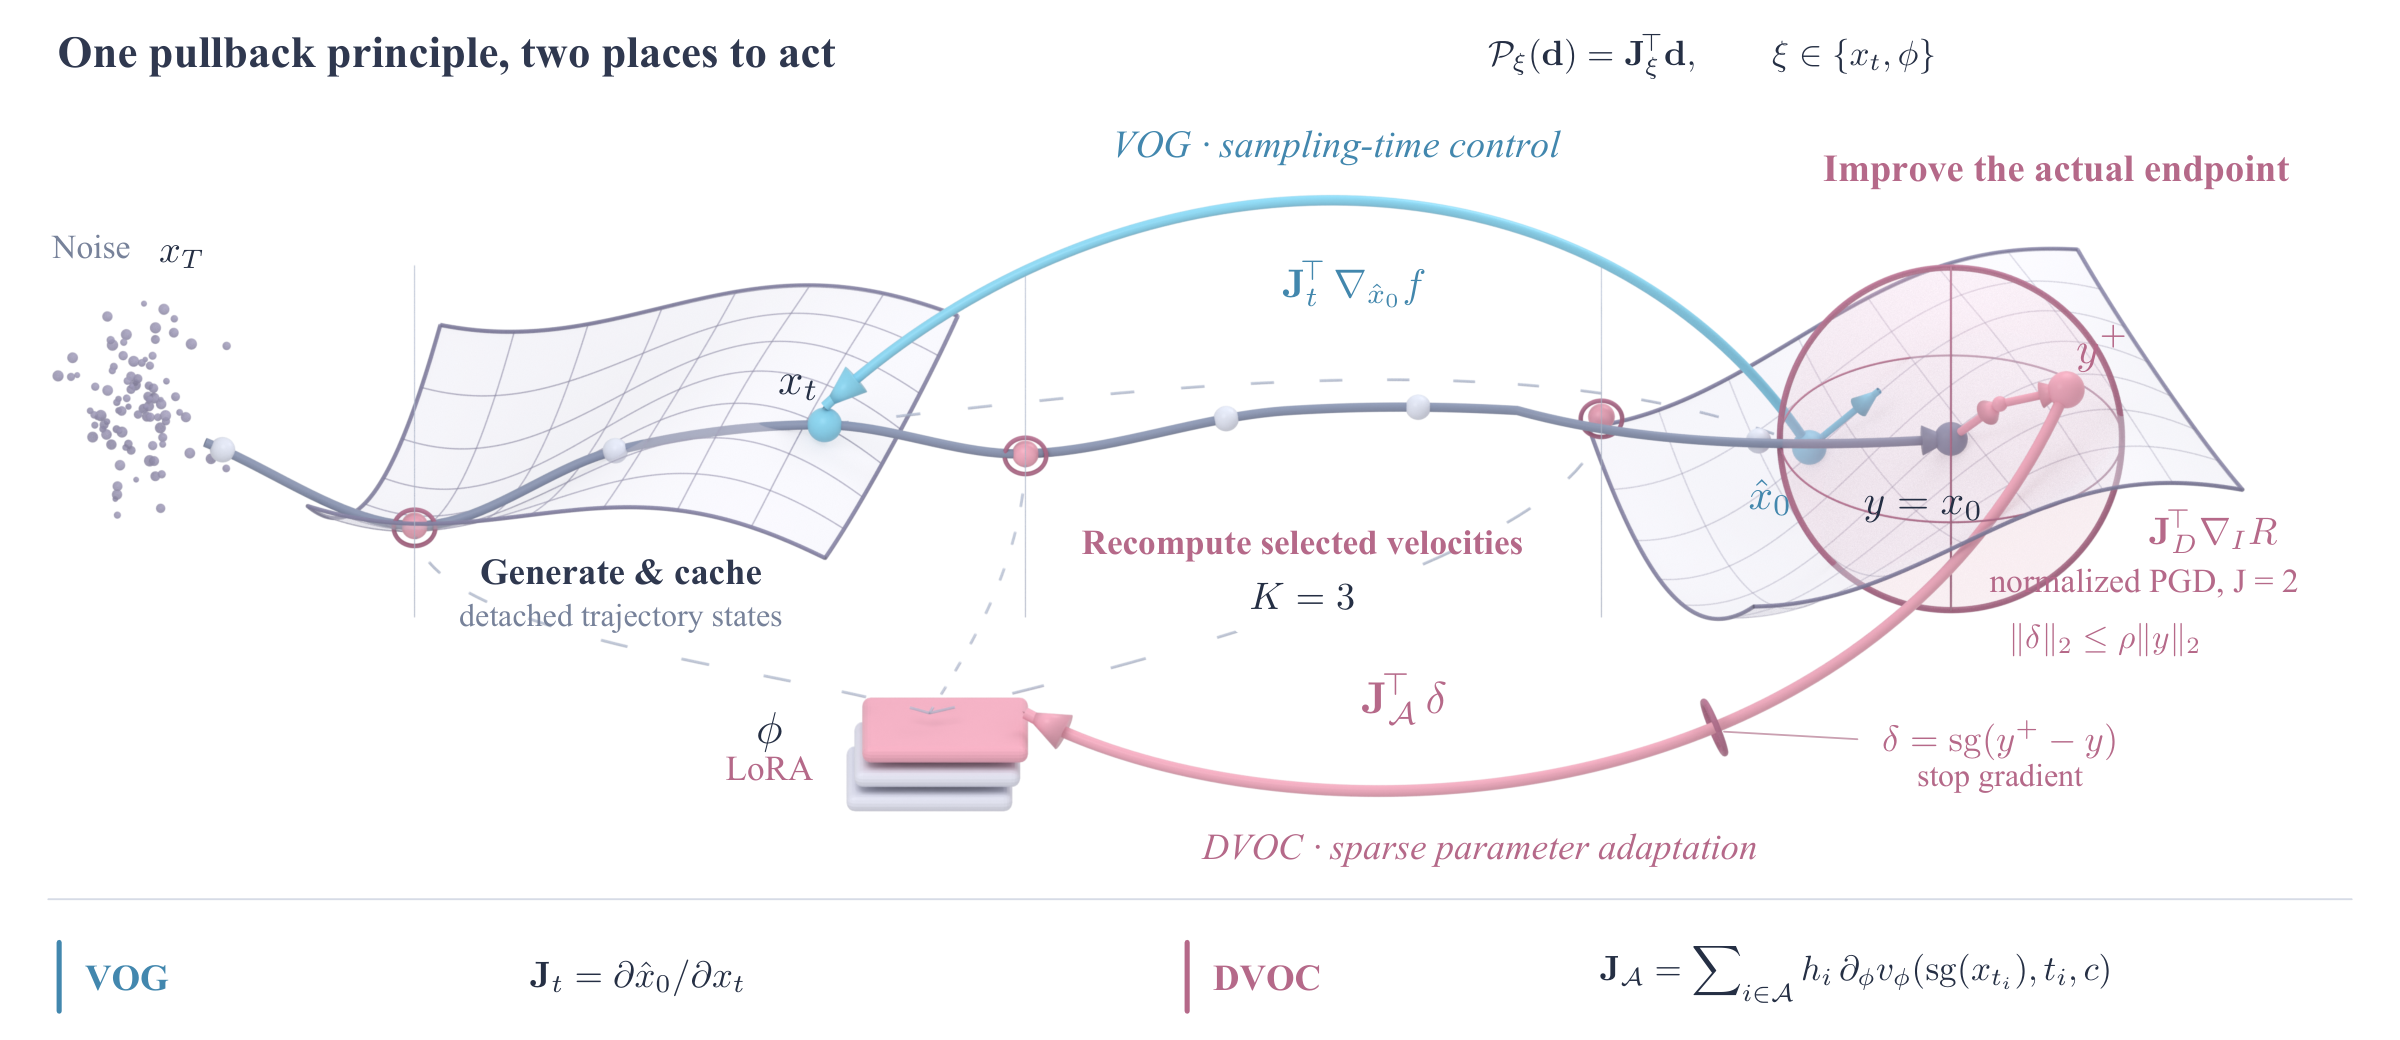
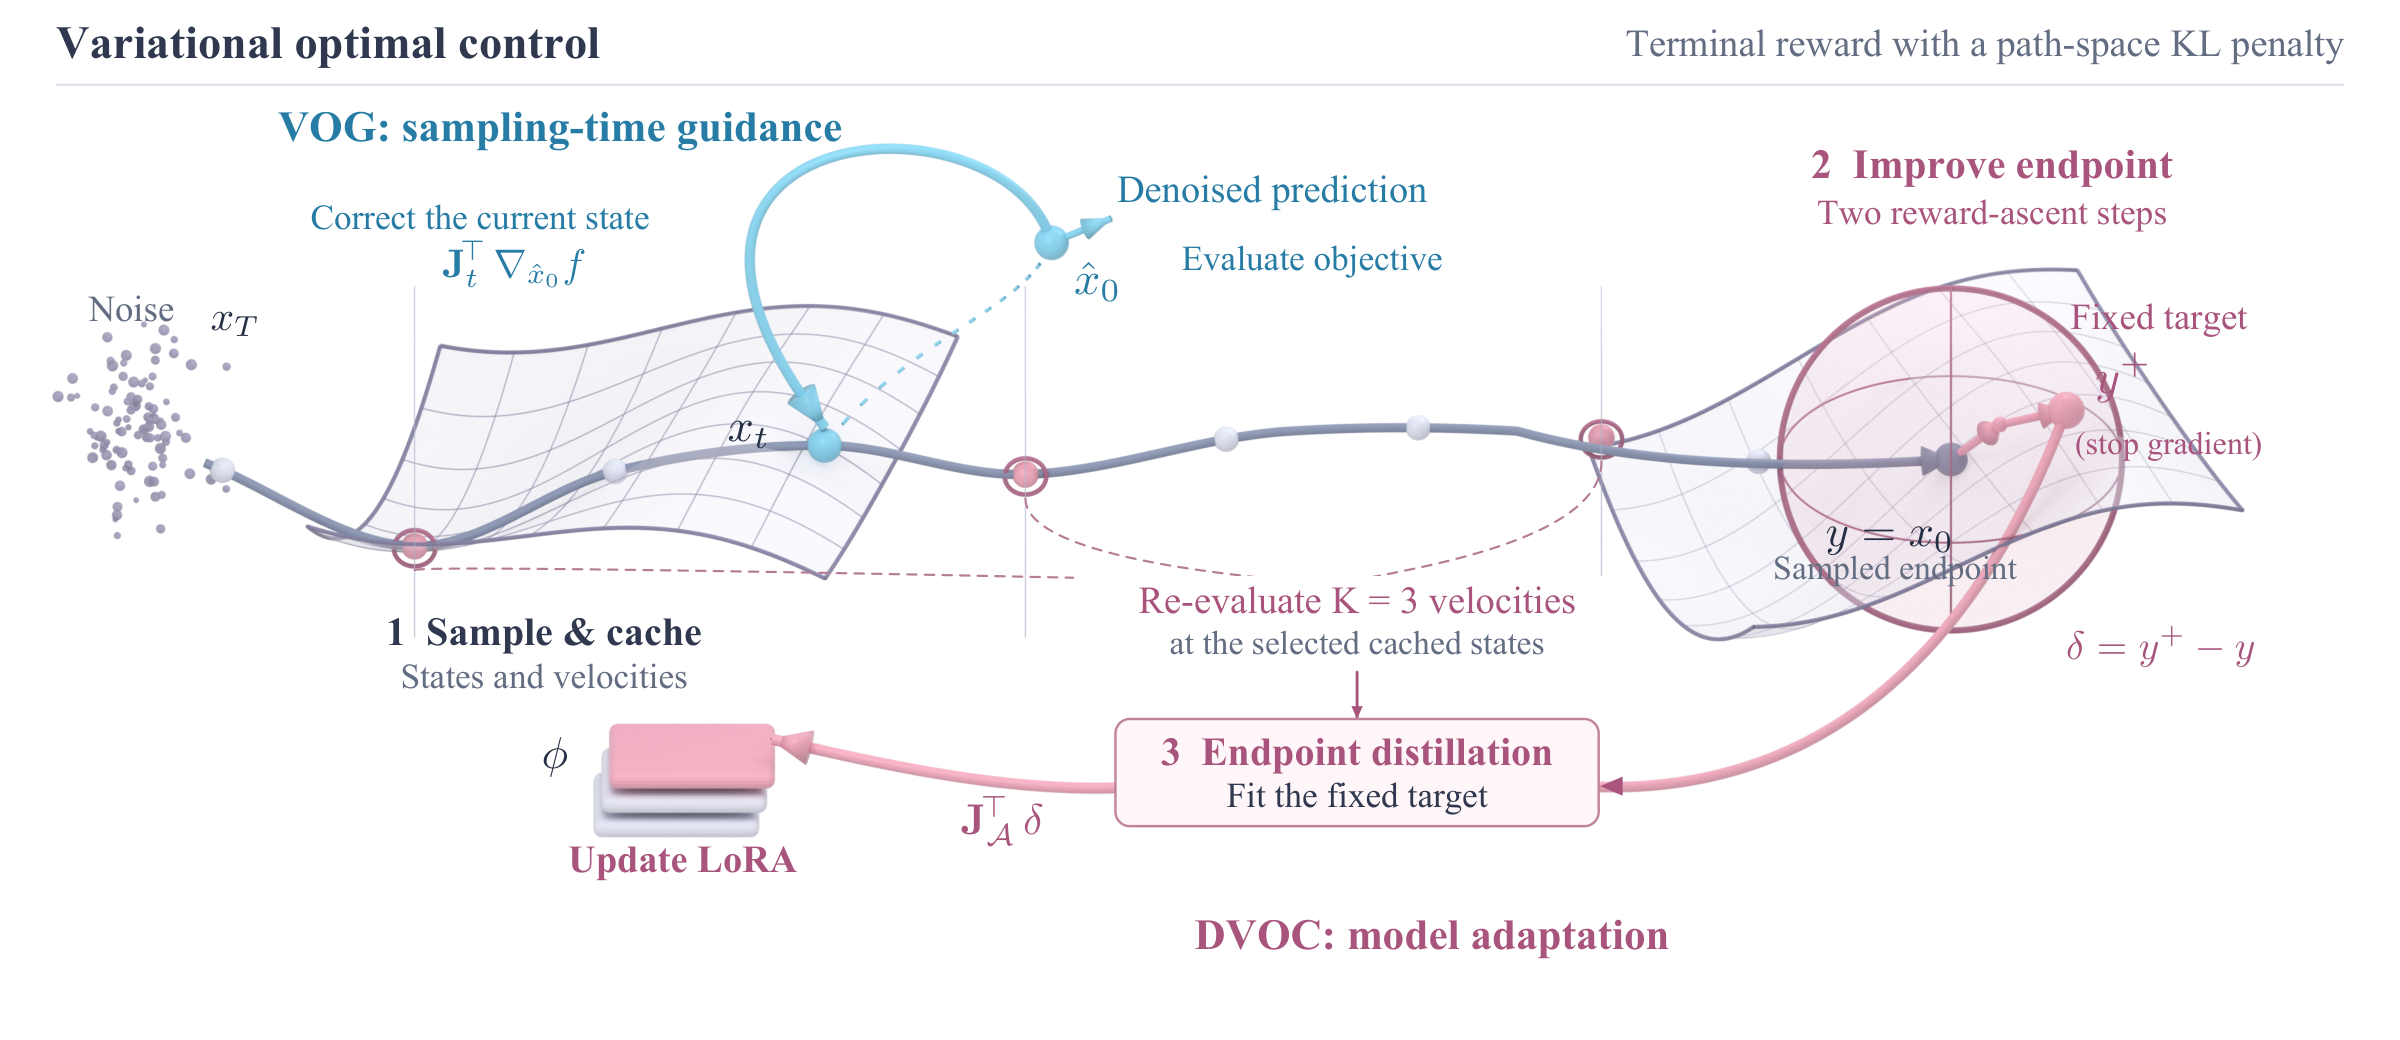
Clarify VOG and DVOC pipeline figure

diff --git a/README.md b/README.md
@@ -36,7 +36,7 @@ A local denoising approximation reveals the shared mechanism: **map output prefe
 <p align="center">
   <img src="assets/framework.png" alt="A shared variational control principle: VOG corrects sampling states and DVOC distills improved endpoint targets into model parameters." width="100%">
 </p>
-<p align="center"><em>One variational principle, two realizations: VOG controls sampling states, and DVOC learns the control through endpoint distillation.</em></p>
+<p align="center"><em>VOG corrects the current sampling state. DVOC refines the sampled endpoint and distills the fixed target into model parameters.</em></p>
 
 | ImageNet guidance | Generation in 25 steps | Adaptation in 20 updates |
 |:---:|:---:|:---:|
